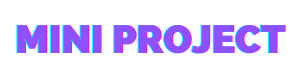
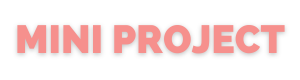
Modify theme

Changed region(s): [[0.03, 0.3, 0.96, 0.7]]

diff --git a/pages/attendance.py b/pages/attendance.py
@@ -65,7 +65,7 @@ class Game(Page):
         
         total_attended = sum([x['attended'] for x in self.data])
         total = sum([x['total'] for x in self.data])
-        print(total_attended, total)
+        # print(total_attended, total)
         self.overall.config(text=f'{(total_attended/total)*100:.2f}%')
 
         self.sub_area.destroy()
@@ -82,7 +82,9 @@ class Game(Page):
             frame.columnconfigure(3, weight=1)
 
             tkinter.Label(frame, text=f"{sub['code']}", anchor='w', justify='left', font=('Arial',19), background='white').grid(row=0, column=0, sticky='nsw', rowspan=2)
-            tkinter.Label(frame, text=f"{sub['attended']/sub['total']*100:.2f}%\n{self.get_comment(sub)}", anchor='w', font=('Arial',9), justify='left', background='white', foreground=self.get_color(sub)).grid(row=0, column=1, sticky='sw')
+            if sub['total']: txt = f"{sub['attended']/sub['total']*100:.2f}%\n{self.get_comment(sub)}"
+            else: txt = ''
+            tkinter.Label(frame, text=txt, anchor='w', font=('Arial',9), justify='left', background='white', foreground=self.get_color(sub)).grid(row=0, column=1, sticky='sw')
             # tkinter.Label(frame, text=f"", anchor='w', justify='left', background='white').grid(row=1, column=1, sticky='nw')
 
             tkinter.Button(frame, text = 'Present', image=self.ref.present, background='white', borderwidth=0, command=lambda x=i: self.update(x, True)).grid(row=0, column=2)
@@ -103,15 +105,16 @@ class Game(Page):
     def get_color(self, sub):
         available_bunks = self.calculate_available(sub)
         if available_bunks >= 3:
-            return 'green'
+            return '#45a120'
         elif available_bunks > 0:
-            return 'orange'
+            return '#a19a20'
         else:
-            return 'red'
+            return '#eb4034'
     
         
     def calculate_available(self, sub):
         n = 0
+        if not sub['total']: return 0
         a = sub['total']
         while sub['attended']/a*100 >= 85:
             a += 1

diff --git a/pages/quiz.py b/pages/quiz.py
@@ -59,7 +59,7 @@ class Game(Page):
         tkinter.Label(self.area, text=question, font=('Arial',15), background='white', wraplength=360).grid(row=0, column=0, sticky='n')
         self.buttons = []
         for i in range(1,5):
-            self.buttons.append(tkinter.Button(self.area, text=options[i-1], background='white', activebackground='#94e36f' if (i-1)==correct_index else '#e38f8f', bd=0, command=lambda x=i-1, bts=self.buttons:self.click(x,correct_index,bts), relief=tkinter.SUNKEN, borderwidth=1, disabledforeground='black'))
+            self.buttons.append(tkinter.Button(self.area, text=options[i-1], background='#fae9e1', activebackground='#94e36f' if (i-1)==correct_index else '#e38f8f', bd=0, command=lambda x=i-1, bts=self.buttons:self.click(x,correct_index,bts), relief=tkinter.FLAT, borderwidth=1, disabledforeground='black'))
         
         randorder = list(range(4))
         random.shuffle(randorder)
@@ -97,7 +97,7 @@ class Game(Page):
         self.message.rowconfigure(0,weight=1)
         self.message.columnconfigure(0,weight=1)
         tkinter.Label(self.message, text=f'{(100*self.score/self.count):.2f}%', font=('Arial',50), background='white').grid(row=0,column=0)
-        tkinter.Button(self.message, text='Play Again', background='white', font=('Arial',20), command=self.replay, relief=tkinter.GROOVE).grid(row=1,column=0, sticky='ew', pady=30, padx=40)
+        tkinter.Button(self.message, text='Play Again', background='#fae9e1', font=('Arial',20), command=self.replay, relief=tkinter.FLAT).grid(row=1,column=0, sticky='ew', pady=30, padx=40)
         # tkinter.Label(self.message, text='OVERRR')
 
     def replay(self):

diff --git a/pages/tic_tac_toe.py b/pages/tic_tac_toe.py
@@ -57,7 +57,7 @@ class Game(Page):
         self.area.columnconfigure(1,weight=1)
         self.area.columnconfigure(2,weight=1)
 
-        self.next_play = tkinter.Label(self.body, text="to play : X", background='white')
+        self.next_play = tkinter.Label(self.body, text="to play : X", background='white', font=('Arial',15))
         self.next_play.grid(row=2,column=1, pady=10)
 
         self.ref.ximg =  tkinter.PhotoImage(file=os.path.join(self.cwd,'img/X.png'))
@@ -77,7 +77,7 @@ class Game(Page):
             temp = []
             for j in range(3):
                 cell = self.xo_board[i][j]
-                temp.append(tkinter.Button(self.area, text='e', image=self.ref.ximg if cell=='X' else self.ref.oimg if cell=='O' else self.ref.bimg , borderwidth=0, command=lambda a=i,b=j:self.click(a,b,'user')))
+                temp.append(tkinter.Button(self.area, text='e', image=self.ref.ximg if cell=='X' else self.ref.oimg if cell=='O' else self.ref.bimg , borderwidth=0, background='white', command=lambda a=i,b=j:self.click(a,b,'user')))
                 temp[j].grid(row=i, column=j, sticky='news')
             self.buttons.append(temp)
 

diff --git a/pages/number_guess.py b/pages/number_guess.py
@@ -50,6 +50,9 @@ class Game(Page):
         self.area.rowconfigure(0,weight=4)
         self.area.rowconfigure(1,weight=1)
         self.area.columnconfigure(0,weight=1)
+        self.area.rowconfigure(2,weight=1)
+        self.area.grid_rowconfigure(2, minsize=40)
+
 
         self.guess_var = tkinter.StringVar(self.area,'??')
         self.guess = tkinter.Label(self.area, textvariable= self.guess_var, background='white', font=('Arial', 45))
@@ -111,10 +114,9 @@ class Game(Page):
         else:
             self.feedback.set(f"YOU LOSE (number was {self.chosen})")
 
-        self.area.rowconfigure(2,weight=1)
 
         tkinter.Button(self.area, text = 'Replay')
-        tkinter.Button(self.area, text='Play Again', background='white', font=('Arial',20), command=self.replay, relief=tkinter.GROOVE).grid(row=2,column=0, sticky='ew', pady=30, padx=40)
+        tkinter.Button(self.area, text='Play Again', background='#fae9e1', font=('Arial',20), command=self.replay, relief=tkinter.FLAT).grid(row=2,column=0, sticky='ew', pady=30, padx=40)
 
     def replay(self):
         Page(self.ref.parent,self.cwd)

diff --git a/pages/sudoku_solver.py b/pages/sudoku_solver.py
@@ -149,8 +149,8 @@ class Game(Page):
         for i in range(9):
             self.row = []
             for j in range(9):
-                self.row.append(tkinter.Entry(self.area, justify='center', font=('Arial', 20), relief=tkinter.RIDGE, textvariable=self.sudoku_board[i][j]))
-                self.row[j].grid(row=i,column=j, sticky='news')
+                self.row.append(tkinter.Entry(self.area, justify='center', font=('Arial', 20), relief=tkinter.FLAT, background='#fae9e1', highlightbackground='red', highlightcolor='red', textvariable=self.sudoku_board[i][j]))
+                self.row[j].grid(row=i,column=j, sticky='news', padx=1, pady=1)
                 self.row[j].config(validate="key", validatecommand=(self.reg, '%P'))
             self.entries.append(self.row)
 

diff --git a/pages/password_generator.py b/pages/password_generator.py
@@ -49,7 +49,7 @@ class Game(Page):
         self.area.columnconfigure(1, weight=1)
         self.area.rowconfigure(0, weight=5)
         self.area.rowconfigure(1, weight=1)
-        self.password = tkinter.Entry(self.area, font=('Arial',20), justify='center', relief='flat')
+        self.password = tkinter.Entry(self.area, font=('Arial',20), justify='center', relief='flat', background='#fae9e1', disabledbackground='#fae9e1', readonlybackground='#fae9e1')
         self.password.grid(row=0,column=0, columnspan=2, sticky='new')
 
         self.ref.refresh = tkinter.PhotoImage(file=os.path.join(self.cwd,'img/refresh.png'))

diff --git a/pages/hangman.py b/pages/hangman.py
@@ -105,7 +105,7 @@ class Game(Page):
         if not iswin:
             self.guess.config(text=f'ans : {self.word[0]}')
 
-        tkinter.Button(self.area, text='Play Again', background='white', font=('Arial',15), command=self.replay, relief=tkinter.GROOVE).grid(row=3,column=0, sticky='ew', pady=0, padx=100)
+        tkinter.Button(self.area, text='Play Again', background='#fae9e1', font=('Arial',15), command=self.replay, relief=tkinter.FLAT).grid(row=3,column=0, sticky='ew', pady=0, padx=100)
 
     def replay(self):
         Page(self.ref.parent,self.cwd)
